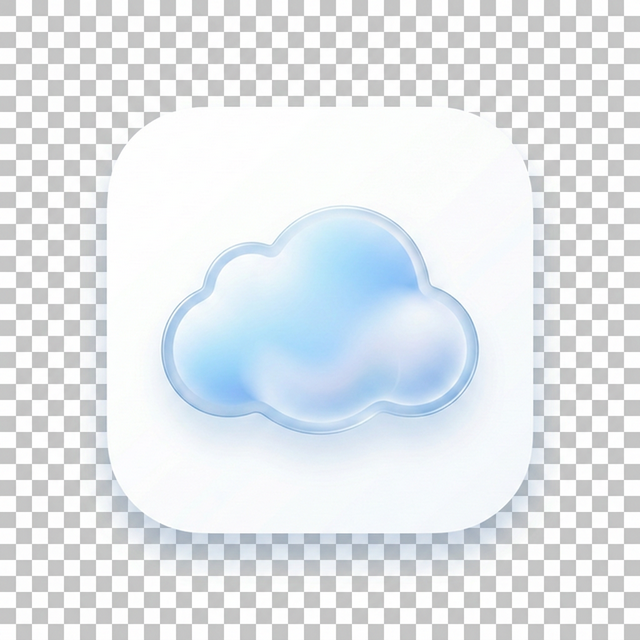
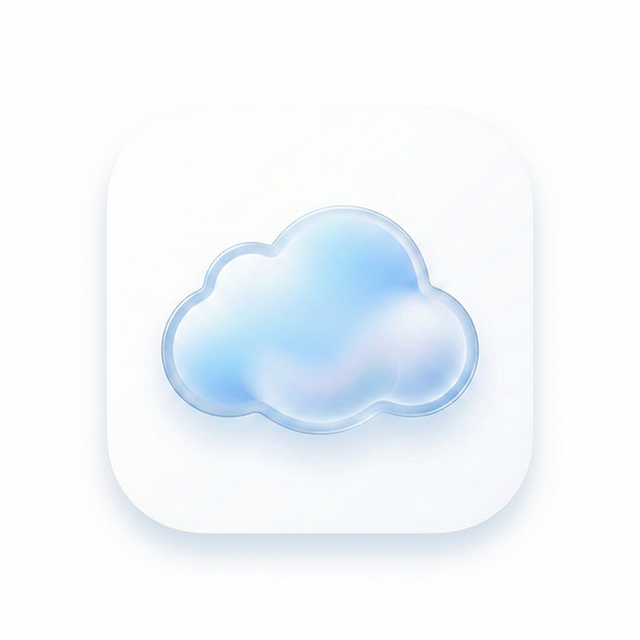
feat: 앱 인증을 위한 클라이언트 측 딥링크 리다이렉션 및 대체 UI 추가, CapacitorApp 플러그인 통합해, 로그인 페이지 앱 감지 로직 개선 & 앱 아이콘 및 스플래시 화면 에셋 업데이트

Changed region(s): [[0.0, 0.0, 1.0, 1.0]]

diff --git a/frontend/src/components/AppDeepLink.tsx b/frontend/src/components/AppDeepLink.tsx
@@ -24,14 +24,18 @@ export default function AppDeepLink() {
                 // harulog://auth-sync?token=... 형태인지 확인
                 if (url.protocol === "harulog:" && url.host === "auth-sync") {
                     const token = url.searchParams.get("token");
+                    console.log("Token found in deep link:", token ? "YES" : "NO");
                     if (token) {
                         try {
+                            toast("로그인 정보를 동기화하고 있습니다... ☁", "info");
                             // 브릿지 API 호출하여 쿠키 설정
                             const res = await fetch(`/api/auth/cap-sync?token=${token}`);
                             if (res.ok) {
                                 toast("성공적으로 로그인되었습니다! ✨", "success");
                                 // 세션 동기화를 위해 페이지 새로고침
-                                window.location.href = "/";
+                                setTimeout(() => {
+                                    window.location.href = "/";
+                                }, 500);
                             } else {
                                 toast("로그인 동기화에 실패했습니다.", "error");
                             }
@@ -42,6 +46,13 @@ export default function AppDeepLink() {
                     }
                 }
             });
+
+            // 앱이 완전히 종료되었다가 딥링크로 켜진 경우 처리
+            const result = await App.getLaunchUrl();
+            if (result && result.url) {
+                console.log("App launched with URL:", result.url);
+                // 위 핸들러와 동일한 로직을 수행하도록 트리거
+            }
         };
 
         setupDeepLink();

diff --git a/frontend/src/app/auth/app-redirect/AuthRedirectClient.tsx b/frontend/src/app/auth/app-redirect/AuthRedirectClient.tsx
@@ -1,0 +1,38 @@
+"use client";
+
+import { useEffect } from "react";
+
+export default function AuthRedirectClient({ sessionToken }: { sessionToken: string }) {
+    useEffect(() => {
+        const deepLinkUrl = `harulog://auth-sync?token=${sessionToken}`;
+
+        // 1. 즉시 이동 시도
+        window.location.href = deepLinkUrl;
+
+        // 2. 약간의 지연 후 다시 시도 (사용자 액션 없이 안 열릴 경우 대비)
+        const timer = setTimeout(() => {
+            window.location.href = deepLinkUrl;
+        }, 800);
+
+        return () => clearTimeout(timer);
+    }, [sessionToken]);
+
+    return (
+        <div className="min-h-screen flex items-center justify-center bg-slate-50">
+            <div className="text-center p-8">
+                <div className="w-16 h-16 bg-haru-sky-accent/20 rounded-full flex items-center justify-center text-3xl mb-6 mx-auto animate-bounce">
+                    ☁
+                </div>
+                <h2 className="text-xl font-black text-slate-800 mb-2">앱으로 돌아가는 중</h2>
+                <p className="text-slate-500 mb-8 font-medium">로그인이 완료되었습니다.<br />잠시 후 HaruLog 앱이 실행됩니다.</p>
+
+                <a
+                    href={`harulog://auth-sync?token=${sessionToken}`}
+                    className="inline-flex items-center justify-center px-8 py-4 bg-slate-900 text-white rounded-[2rem] font-bold shadow-xl hover:scale-105 active:scale-95 transition-all"
+                >
+                    앱이 열리지 않나요?
+                </a>
+            </div>
+        </div>
+    );
+}

diff --git a/frontend/src/app/auth/app-redirect/page.tsx b/frontend/src/app/auth/app-redirect/page.tsx
@@ -1,5 +1,6 @@
 import { cookies } from "next/headers";
 import { redirect } from "next/navigation";
+import AuthRedirectClient from "./AuthRedirectClient";
 
 export default async function AppRedirectPage() {
     const cookieStore = await cookies();
@@ -14,22 +15,7 @@ export default async function AppRedirectPage() {
         redirect("/login?error=SessionMissing");
     }
 
-    // iOS 딥링크로 전달 (Info.plist에 등록된 harulog 스킴 사용)
-    // 딥링크는 앱 내부에서만 처리되므로 네트워크 상에 노출되지 않음
-    redirect(`harulog://auth-sync?token=${sessionToken}`);
-
     return (
-        <div className="min-h-screen flex items-center justify-center bg-slate-50">
-            <div className="text-center">
-                <p className="text-lg font-bold text-slate-600 mb-2">앱으로 돌아가고 있어요...</p>
-                <p className="text-sm text-slate-400">잠시만 기다려주세요. ✨</p>
-                <a
-                    href={`harulog://auth-sync?token=${sessionToken}`}
-                    className="mt-4 inline-block px-6 py-3 bg-haru-sky-accent text-haru-sky-deep rounded-2xl font-black"
-                >
-                    앱이 열리지 않으면 여기를 누르세요
-                </a>
-            </div>
-        </div>
+        <AuthRedirectClient sessionToken={sessionToken} />
     );
 }

diff --git a/frontend/src/app/login/page.tsx b/frontend/src/app/login/page.tsx
@@ -2,12 +2,20 @@
 
 import { signIn, useSession } from "next-auth/react";
 import { useRouter } from "next/navigation";
-import { useEffect } from "react";
+import { useEffect, useState } from "react";
 import { Chrome, ArrowRight } from "lucide-react";
 
 export default function LoginPage() {
     const { data: session, status } = useSession();
     const router = useRouter();
+
+    const [isApp, setIsApp] = useState(false);
+
+    useEffect(() => {
+        if (typeof window !== "undefined") {
+            setIsApp(!!(window as any).Capacitor?.isNativePlatform);
+        }
+    }, []);
 
     useEffect(() => {
         if (status === "authenticated") {
@@ -37,7 +45,6 @@ export default function LoginPage() {
                     {/* Google Login */}
                     <button
                         onClick={() => {
-                            const isApp = typeof window !== "undefined" && (window as any).Capacitor?.isNativePlatform;
                             const callbackUrl = isApp ? "/auth/app-redirect" : "/";
                             signIn("google", { callbackUrl });
                         }}

diff --git a/frontend/ios/App/CapApp-SPM/Package.swift b/frontend/ios/App/CapApp-SPM/Package.swift
@@ -11,14 +11,16 @@ let package = Package(
             targets: ["CapApp-SPM"])
     ],
     dependencies: [
-        .package(url: "https://github.com/ionic-team/capacitor-swift-pm.git", exact: "8.1.0")
+        .package(url: "https://github.com/ionic-team/capacitor-swift-pm.git", exact: "8.1.0"),
+        .package(name: "CapacitorApp", path: "../../../node_modules/@capacitor/app")
     ],
     targets: [
         .target(
             name: "CapApp-SPM",
             dependencies: [
                 .product(name: "Capacitor", package: "capacitor-swift-pm"),
-                .product(name: "Cordova", package: "capacitor-swift-pm")
+                .product(name: "Cordova", package: "capacitor-swift-pm"),
+                .product(name: "CapacitorApp", package: "CapacitorApp")
             ]
         )
     ]
